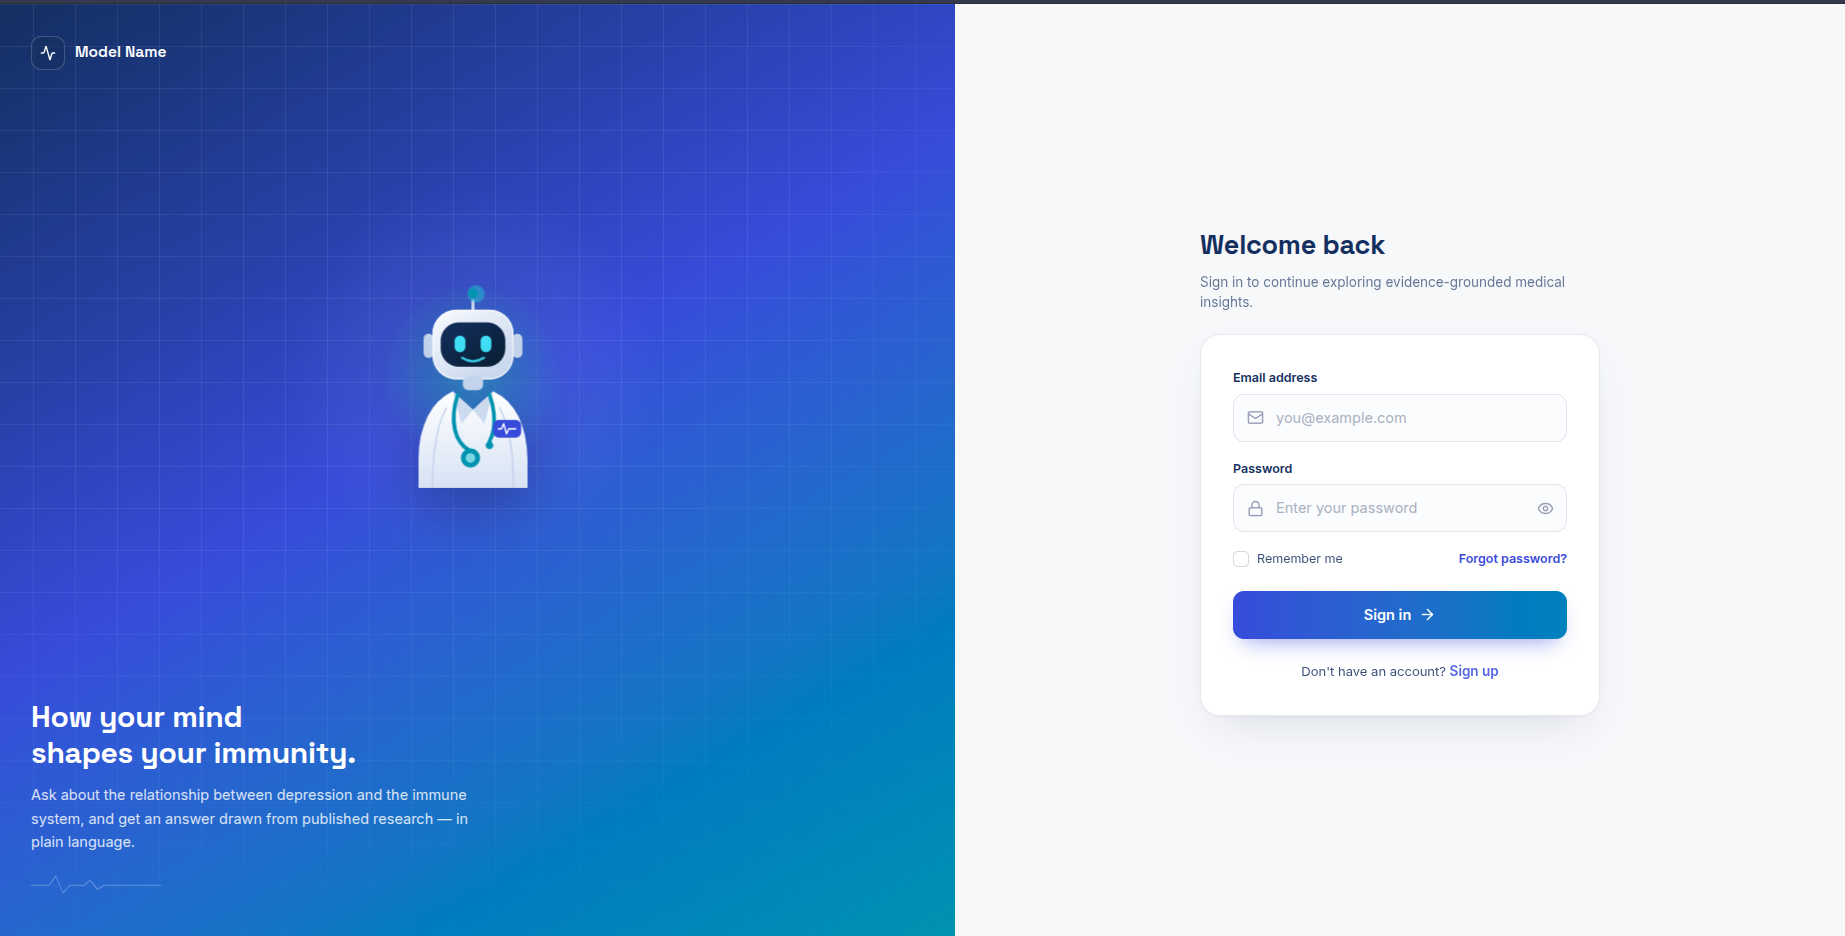
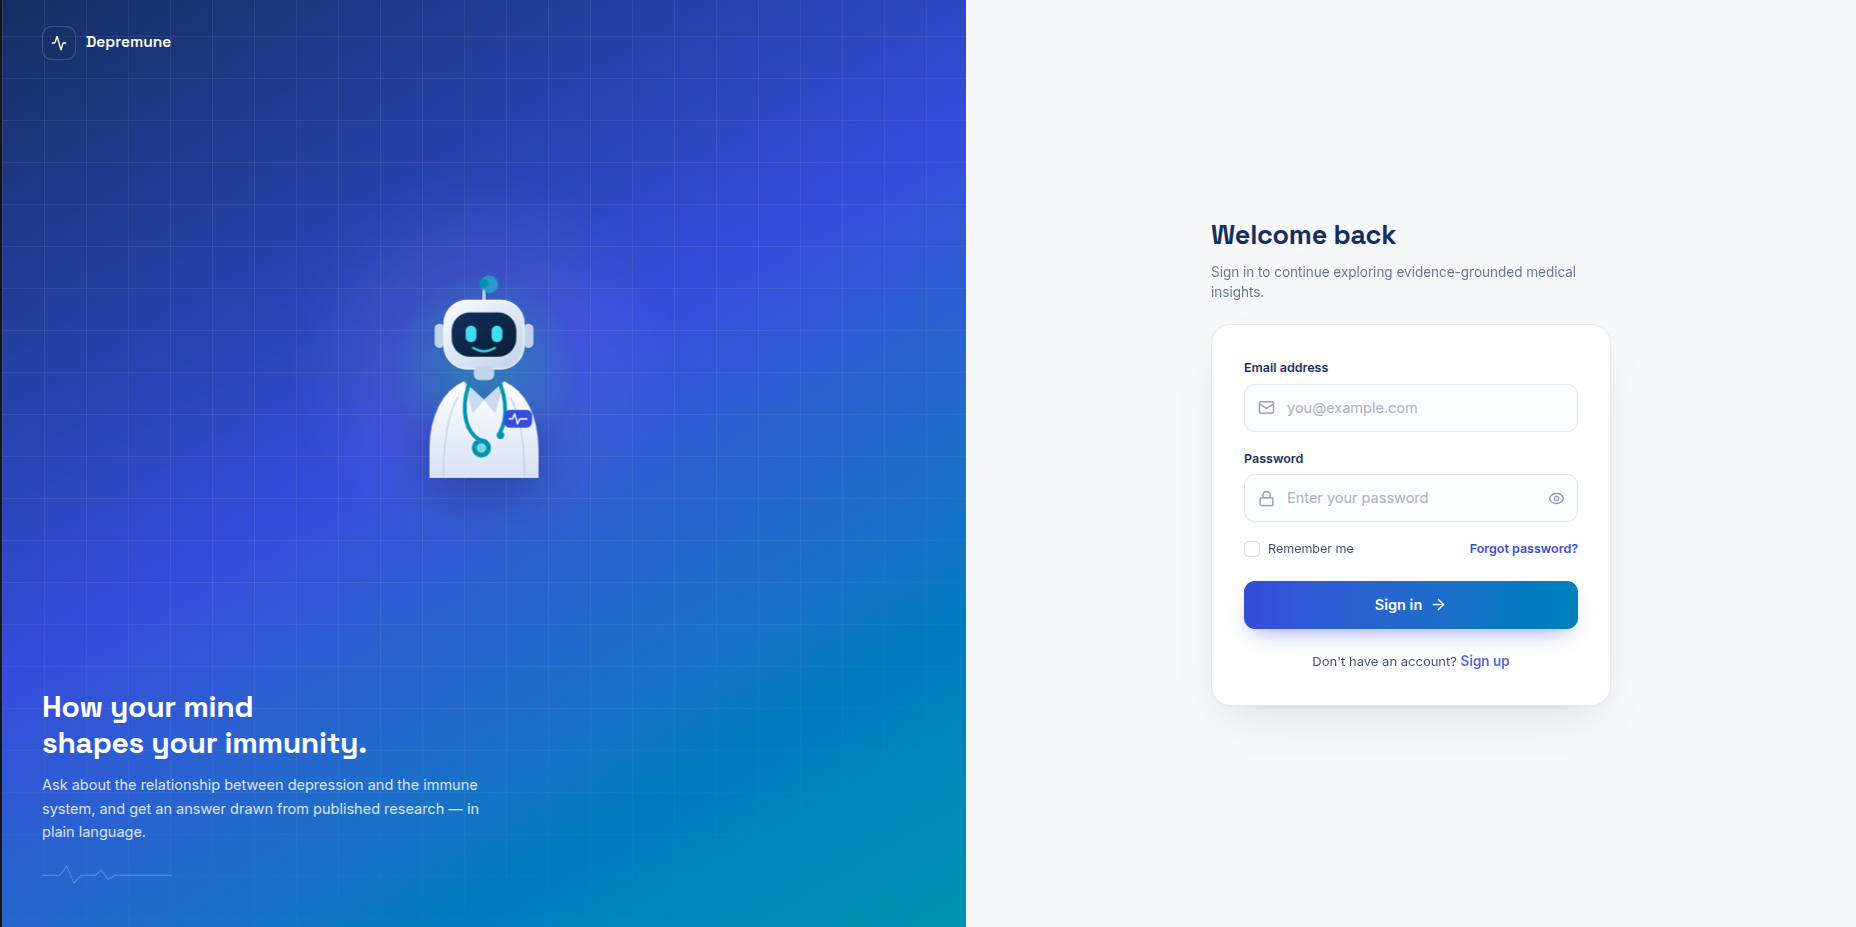
docs: update README with demo video link and UI screenshots

diff --git a/README.md b/README.md
@@ -4,6 +4,17 @@ A complete full-stack web application featuring a modern React frontend and a se
 
 ---
 
+## 🎥 System Walkthrough & Demo Video
+
+Watch the full end-to-end system demonstration covering authentication, the clinical RAG assistant, real-time telemetry logging, and the benchmark dashboard:
+
+* **Watch on Google Drive:** [▶ Open Depremune Demo Video](https://drive.google.com/file/d/1ge6xFHLofWMrVzg5VPyOLOI6QskYtqqw/view?usp=sharing)
+
+> *Note: If watching locally, the recording is located at `demoVideo/Depremune Demo.mp4`.*
+
+---
+
+
 ## 📸 Application Previews & Workflows
 
 ### 1. User Authentication Flow
@@ -19,6 +30,14 @@ A complete full-stack web application featuring a modern React frontend and a se
 | Account Created (Sign-Up Success) | Clinical Workspace Access Granted |
 | :---: | :---: |
 | ![Account Created](screenshots/account-created.png) | ![Access Granted](screenshots/access-granted.png) |
+
+---
+
+### 3. Clinical Intelligence & Analytics
+
+| Evaluation & Benchmark Dashboard | Real-Time AI Research Chat |
+| :---: | :---: |
+| ![Dashboard](screenshots/Dashboard.png) | ![Real Live Chat](screenshots/Real%20live%20chat.png) |
 
 ---
 
